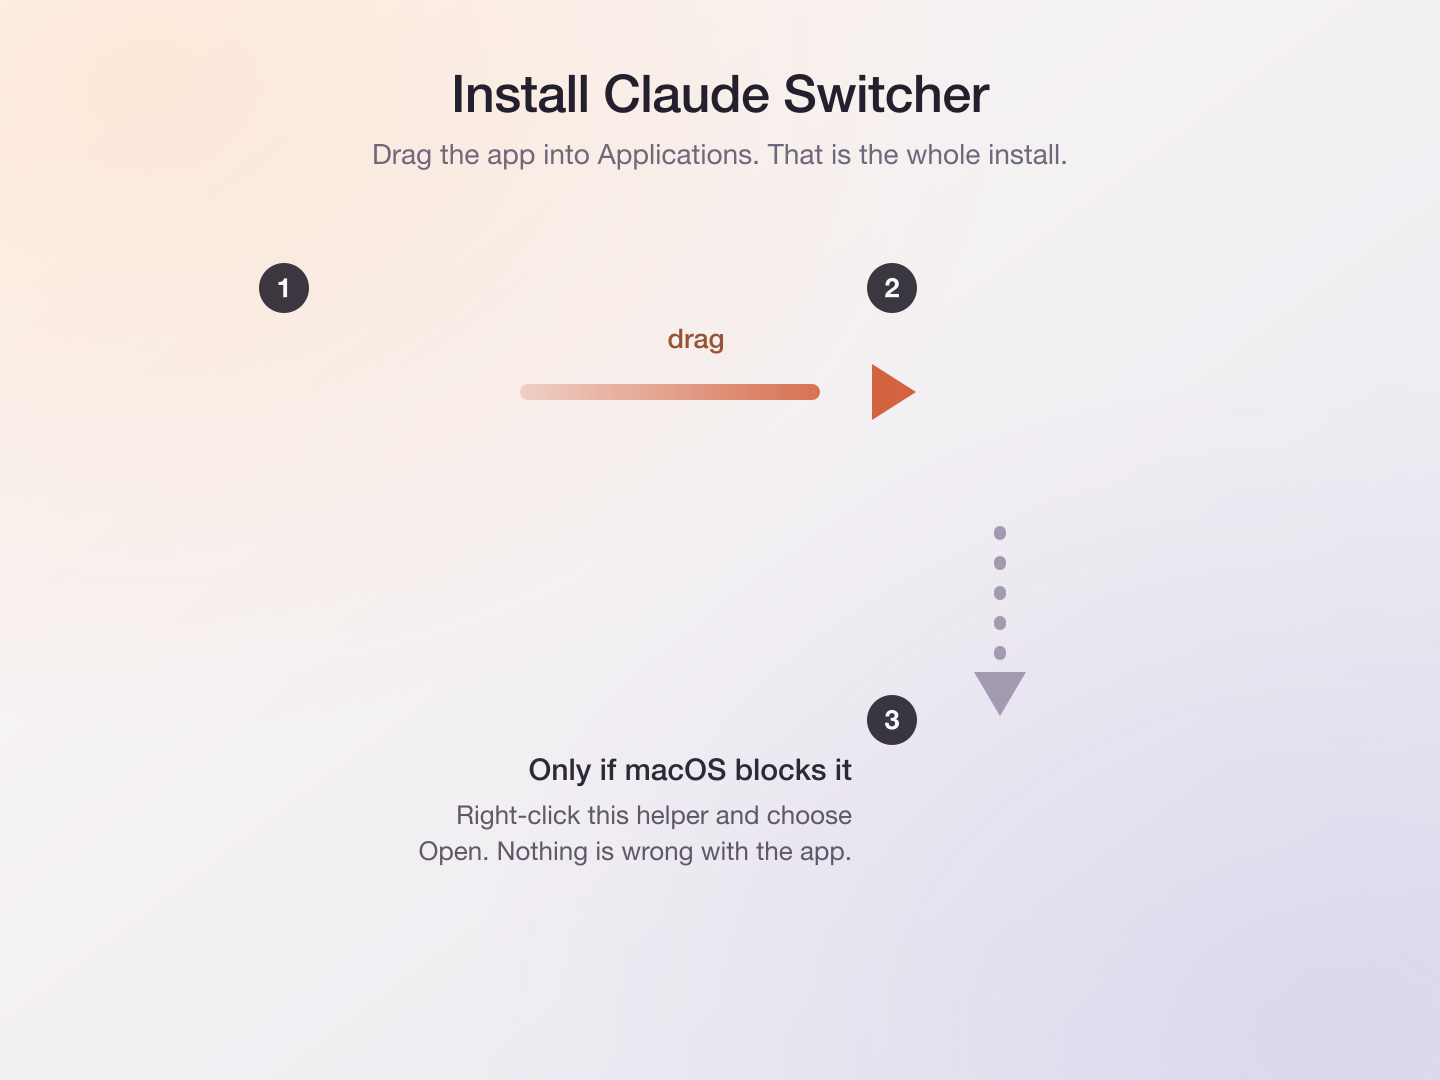
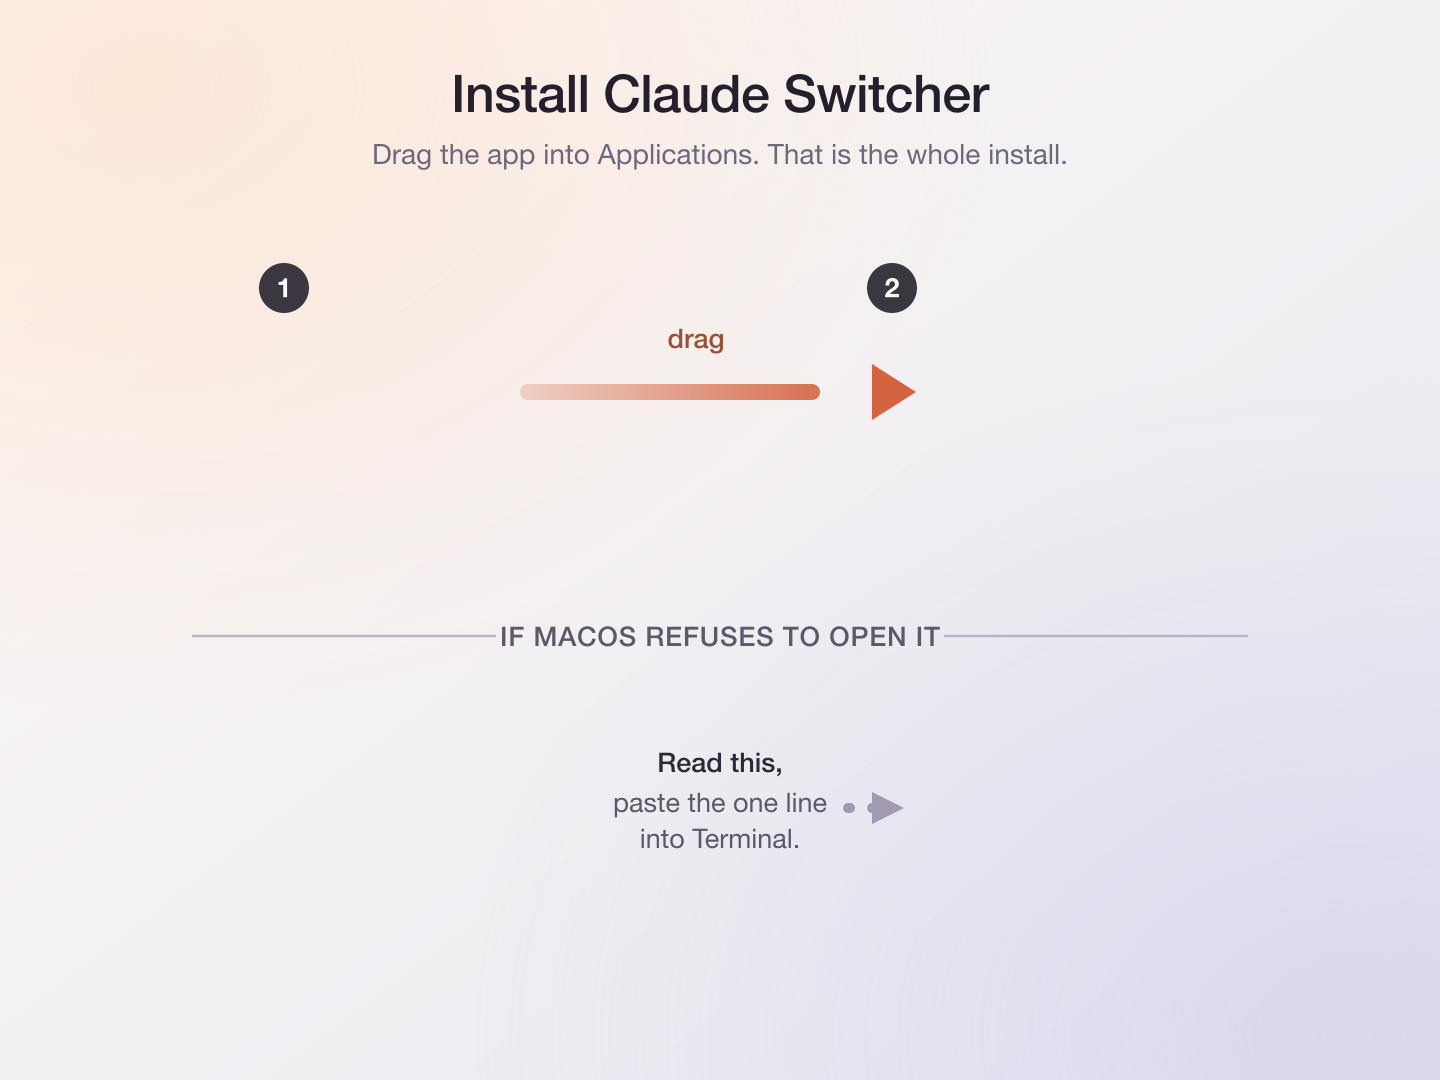
fix(dmg): drop the Open Anyway helper, ship a Terminal shortcut instead
macOS 15 removed right-click > Open for quarantined items, so the
Open Anyway.command shipped in v0.7.1 could not run on Sequoia or later:
the helper is quarantined too and Finder refuses it outright.

The disk image now carries a symlink to Terminal.app next to a plain
"How to open this.txt" with the xattr line. A symlink is not a downloaded
file, so Gatekeeper has nothing to quarantine and double-click works.

Also: the layout AppleScript targeted `disk "Claude Switcher"` by name. With
a released DMG already mounted this one mounts as "Claude Switcher 1" and the
script laid out the wrong window. It now uses the real mount name.

README and release notes no longer tell anyone to right-click.

diff --git a/src/claude_switcher/__init__.py b/src/claude_switcher/__init__.py
@@ -1,1 +1,1 @@
-__version__ = "0.7.1"
+__version__ = "0.7.2"

diff --git a/README.md b/README.md
@@ -29,15 +29,22 @@ Developer account** sign and notarise this? It did not — notarising costs $99/
 The build is signed, just not by a registered developer, and macOS treats that the
 same as unsigned.
 
-The disk image ships **Open Anyway.command** for exactly this. Right-click it,
-choose Open, and it clears the flag and launches the app. Or do it yourself:
+Clear the flag once:
 
 ```bash
 xattr -dr com.apple.quarantine "/Applications/Claude Switcher.app"
 ```
 
-Or open **System Settings → Privacy & Security**, scroll to Security, and click
-**Open Anyway**.
+The disk image has a **Terminal** shortcut next to the app and a
+**How to open this.txt** carrying that line, so it is a double-click and a paste.
+
+No Terminal? Open the app, let macOS refuse it, then go to **System Settings →
+Privacy & Security → Security** and click **Open Anyway**. The button only shows
+up after a blocked attempt.
+
+macOS 15 removed right-click → Open for downloaded apps, so ignore any guide that
+tells you to use it — including v0.7.1 of this one, which shipped an
+`Open Anyway.command` that could not work.
 
 ## What it does
 
